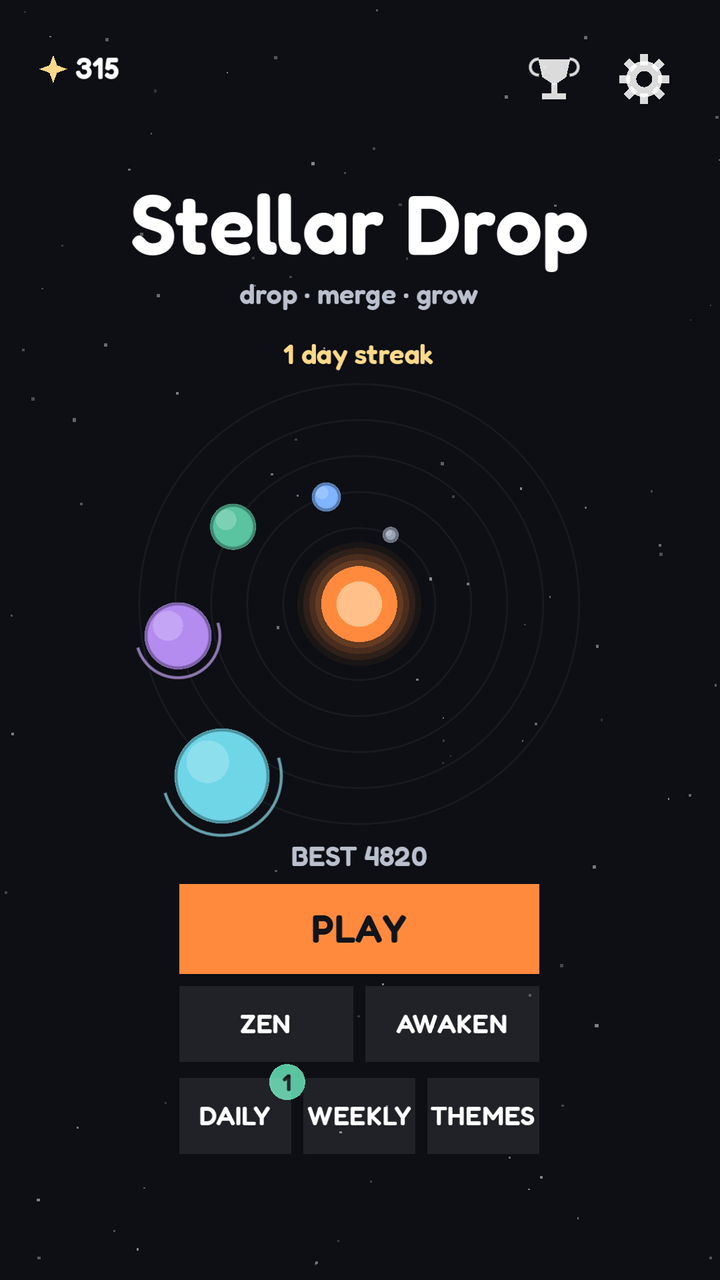
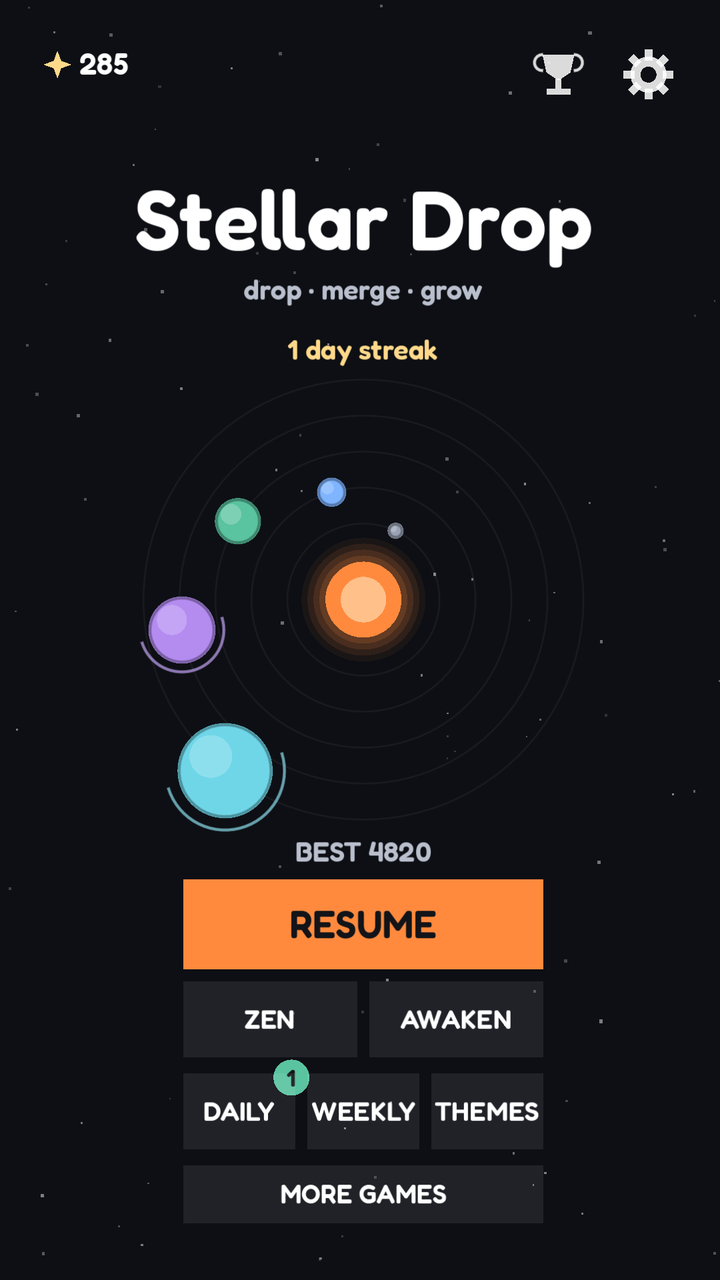
Stellar Drop: new screenshots, resume feature, privacy updated (24 Nov 2026)

diff --git a/stellar-drop/privacy.html b/stellar-drop/privacy.html
@@ -20,7 +20,7 @@
 
   <main class="wrap legal">
     <h1>Privacy Policy</h1>
-    <p class="meta">Stellar Drop · Hasdemir Studio · Effective date: 22 November 2026</p>
+    <p class="meta">Stellar Drop · Hasdemir Studio · Effective date: 24 November 2026</p>
     <div class="lang-switch"><a href="#en">English</a><a href="#tr">Türkçe</a></div>
 
     <div id="en">
@@ -31,7 +31,7 @@
       <p>We do not ask you to create an account. We do not collect your name, email address, phone number, contacts, photos, precise location or any other personal information, and we do not run our own servers that receive data from the Game.</p>
 
       <h2>3. Data stored on your device</h2>
-      <p>Your progress (scores, stardust, discovered planets, achievements, unlocked themes, missions and settings) is stored only on your device. It is not sent to us. Uninstalling the Game deletes this data. The "More games" screen downloads a list of our other games from our website (hasdemir.tr); no personal data is sent, and the list and icons are kept on your device.</p>
+      <p>Your progress (scores, stardust, discovered planets, achievements, unlocked themes, missions, unfinished games, settings, and whether the rating and shop reminders have been shown) is stored only on your device. It is not sent to us. Uninstalling the Game deletes this data. The "More games" screen downloads a list of our other games from our website (hasdemir.tr); no personal data is sent, and the list and icons are kept on your device. The "Rate us" button and the game cards only open a Google Play page in your browser or the Play Store app; they send nothing from the Game.</p>
 
       <h2>4. Advertising</h2>
       <p>The Game may show ads, including optional rewarded ads that you choose to watch, through Google AdMob, a service provided by Google. To show and measure ads, Google may collect and process information such as your device's advertising ID, IP address, device model, operating system, approximate location (estimated from your IP address), how you interact with ads, and crash and diagnostic information about the ad service. Google uses this information according to its own policies:</p>
@@ -59,7 +59,7 @@
 
     <div id="tr">
       <h1 style="margin-top:64px">Gizlilik Politikası</h1>
-      <p class="meta">Stellar Drop · Hasdemir Studio · Yürürlük tarihi: 22 Kasım 2026</p>
+      <p class="meta">Stellar Drop · Hasdemir Studio · Yürürlük tarihi: 24 Kasım 2026</p>
 
       <h2>1. Biz kimiz</h2>
       <p>Stellar Drop ("Oyun"), Türkiye'de faaliyet gösteren bağımsız geliştirici Hasdemir Studio ("biz") tarafından geliştirilmiştir. Bu politika, Oyun'un hangi bilgileri neden işlediğini açıklar.</p>
@@ -68,7 +68,7 @@
       <p>Oyun için hesap oluşturmanız gerekmez. Adınızı, e-posta adresinizi, telefon numaranızı, rehberinizi, fotoğraflarınızı, kesin konumunuzu veya başka bir kişisel verinizi toplamayız. Oyun'dan veri alan kendi sunucularımız yoktur.</p>
 
       <h2>3. Cihazınızda saklanan veriler</h2>
-      <p>İlerlemeniz (skorlar, yıldız tozu, keşfedilen gezegenler, başarımlar, açılan temalar, görevler ve ayarlar) yalnızca cihazınızda saklanır ve bize gönderilmez. Oyun'u kaldırdığınızda bu veriler silinir. "Diğer oyunlarımız" ekranı, diğer oyunlarımızın listesini web sitemizden (hasdemir.tr) indirir; kişisel veri gönderilmez, liste ve simgeler cihazınızda saklanır.</p>
+      <p>İlerlemeniz (skorlar, yıldız tozu, keşfedilen gezegenler, başarımlar, açılan temalar, görevler, yarım kalan oyunlar, ayarlar ve değerlendirme ile market hatırlatmalarının gösterilip gösterilmediği) yalnızca cihazınızda saklanır ve bize gönderilmez. Oyun'u kaldırdığınızda bu veriler silinir. "Diğer oyunlarımız" ekranı, diğer oyunlarımızın listesini web sitemizden (hasdemir.tr) indirir; kişisel veri gönderilmez, liste ve simgeler cihazınızda saklanır. "Bizi değerlendir" düğmesi ve oyun kartları yalnızca tarayıcınızda ya da Play Store uygulamasında bir Google Play sayfası açar; Oyun'dan hiçbir şey göndermez.</p>
 
       <h2>4. Reklamlar</h2>
       <p>Oyun, Google tarafından sağlanan Google AdMob hizmeti aracılığıyla, izlemeyi kendi isteğinizle seçtiğiniz ödüllü reklamlar dahil olmak üzere reklam gösterebilir. Google, reklamları göstermek ve ölçmek için cihazınızın reklam kimliği, IP adresi, cihaz modeli, işletim sistemi, IP adresinizden tahmin edilen yaklaşık konumunuz, reklamlarla etkileşiminiz ve reklam hizmetine ait hata ve teşhis bilgileri gibi bilgileri toplayabilir ve işleyebilir. Google bu bilgileri kendi politikalarına göre kullanır:</p>

diff --git a/stellar-drop/index.html b/stellar-drop/index.html
@@ -30,9 +30,9 @@
     <section>
       <div class="wrap">
         <div class="shots">
-          <img src="../assets/sd-menu.png" alt="Stellar Drop main menu with a small orbiting star system">
-          <img src="../assets/sd-play.png" alt="Planets orbiting the central star during a game">
-          <img src="../assets/sd-awakening.png" alt="Awakening mode with seven colored chakra spheres">
+          <img src="../assets/sd-menu.png?v=2" alt="Stellar Drop main menu with a small orbiting star system">
+          <img src="../assets/sd-play.png?v=2" alt="Planets orbiting the central star during a game">
+          <img src="../assets/sd-awakening.png?v=2" alt="Awakening mode with seven colored chakra spheres">
         </div>
       </div>
     </section>
@@ -47,6 +47,7 @@
           <li><b>Zen and weekly challenges</b>Play with no game over, or try a new rule every Monday.</li>
           <li><b>Daily missions and streaks</b>Fresh goals every day, stardust rewards and twelve achievements.</li>
           <li><b>Seven themes</b>Deep Space, Aurora, Dusk, Frost, Forge, Solar System and Chakra.</li>
+          <li><b>Pick up where you left off</b>Every mode remembers your unfinished game, even after you close the app.</li>
           <li><b>English and Turkish</b>The game follows your device language.</li>
         </ul>
       </div>
